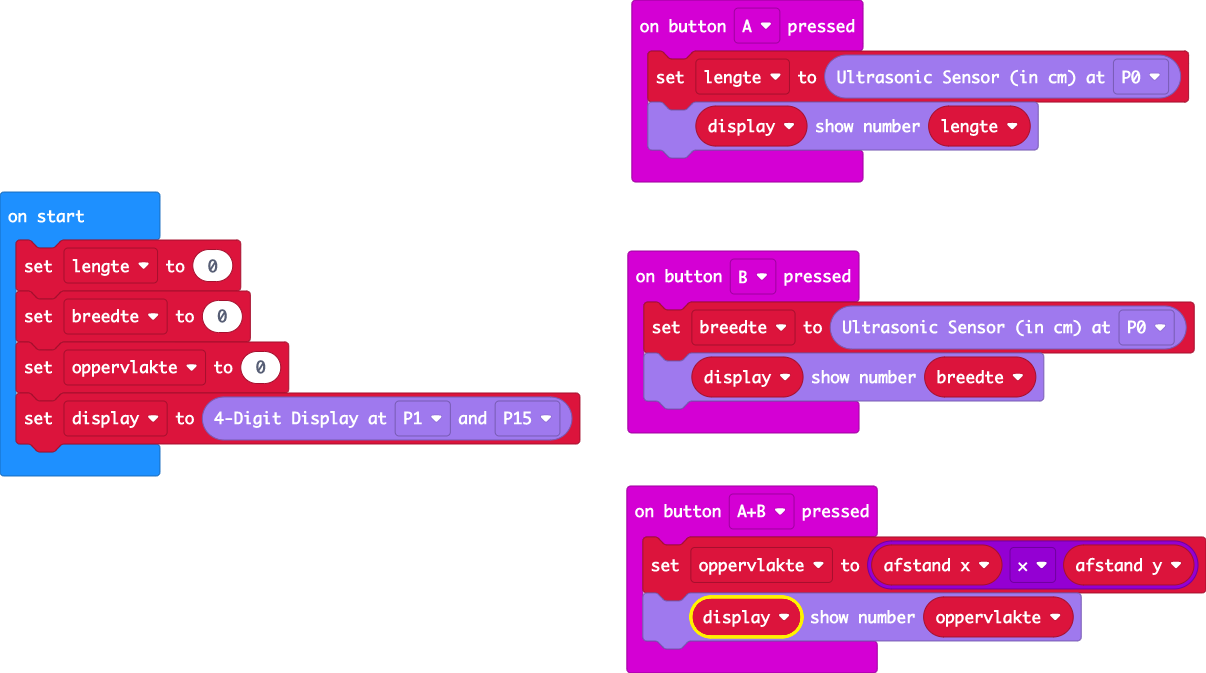
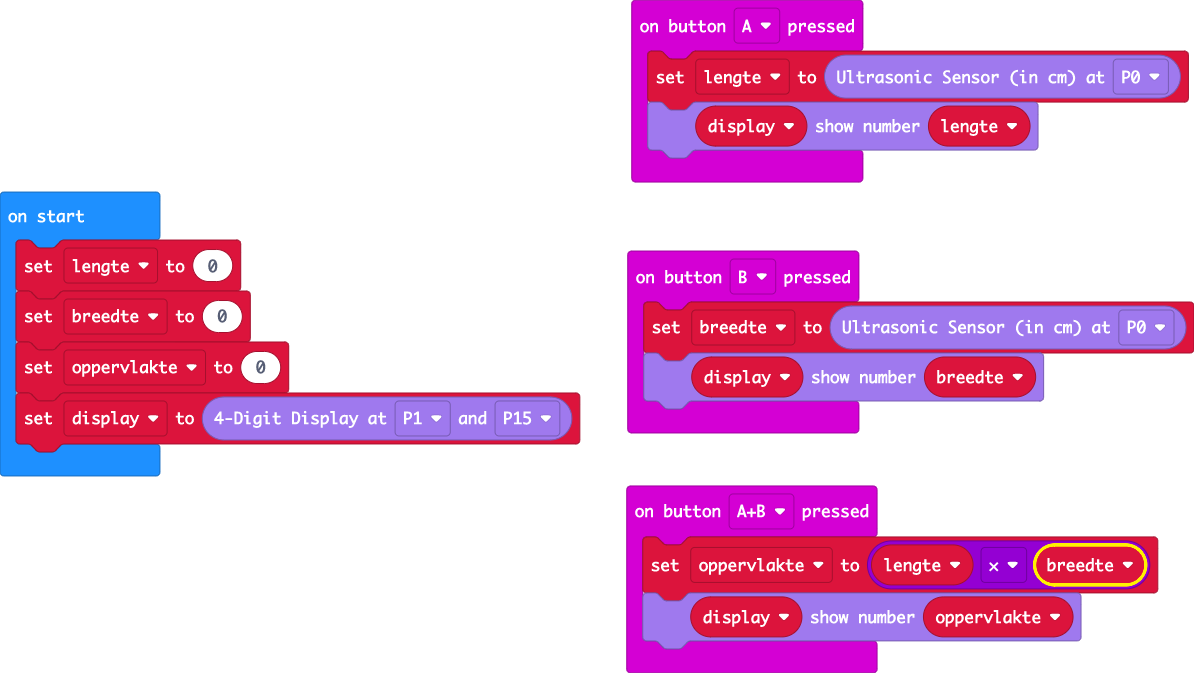
Update main.blocks, main.ts

diff --git a/main.ts b/main.ts
@@ -3,9 +3,7 @@ input.onButtonPressed(Button.A, function () {
     display.show(lengte)
 })
 input.onButtonPressed(Button.AB, function () {
-    let afstand_y = 0
-    let afstand_x = 0
-    oppervlakte = afstand_x * afstand_y
+    oppervlakte = lengte * breedte
     display.show(oppervlakte)
 })
 input.onButtonPressed(Button.B, function () {
